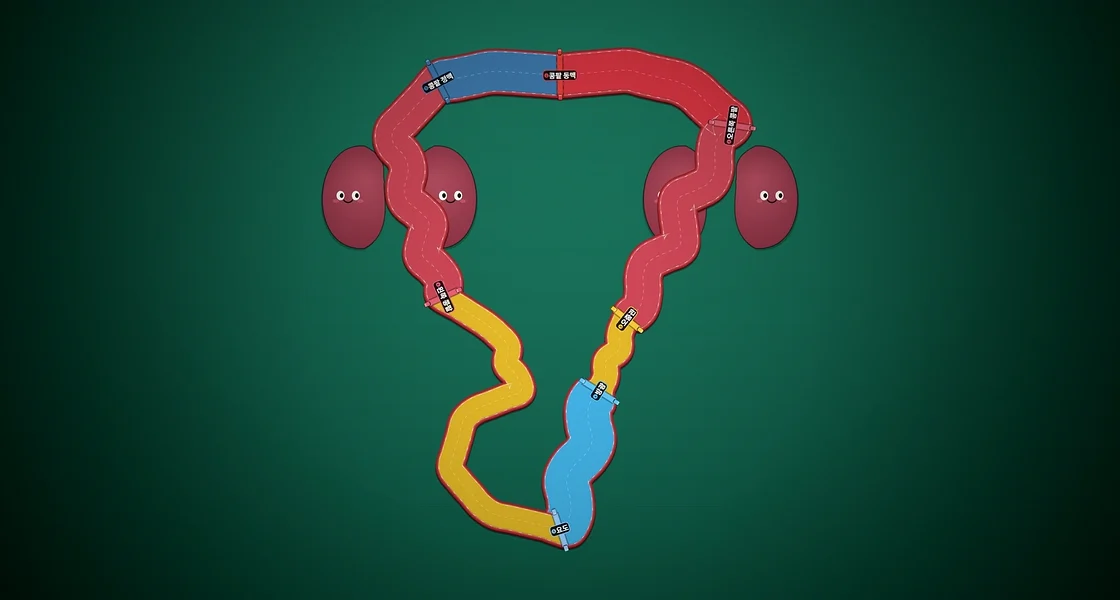
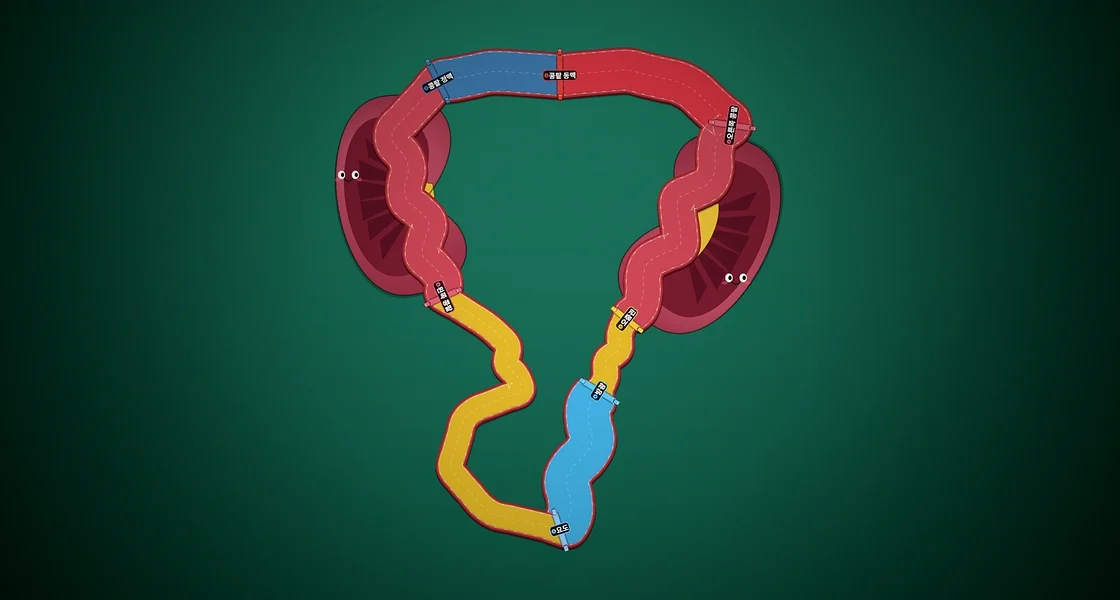
버전 110

diff --git a/index.html b/index.html
@@ -2173,6 +2173,16 @@ Object.assign(EN, {
    맨 위가 지금 판이다. 아래 CHANGES[0].v 가 화면 왼쪽 아래 숫자가 된다 —
    판을 올릴 때는 여기 한 줄만 새로 얹으면 된다. */
 const CHANGES = [
+    { v: 110, d: '9월 11일', t: [
+        '배설계 콩팥을 제대로 — 달걀 네 개로 보이던 것을 강낭콩 두 개로',
+        'Urinary kidneys fixed: two proper beans instead of what looked like four eggs',
+        '콩팥 속에 겉질 · 속질(콩팥 피라미드) · 콩팥깔때기를 그렸다 — 깔때기는 오줌관과 같은 노랑',
+        'Kidneys now show cortex, medulla pyramids and a pelvis matching the ureter',
+        '이자 코스를 뺐다 — 흐름이 아니라 기관 하나라 코스로 만들기 애매했다',
+        'The pancreas course is removed: it was a single organ, not a flow',
+        '친구 방에서 이 판에 없는 코스를 고르면 순환계로 들어간다',
+        'Online rooms fall back to the circulatory course if the host picked a course this version lacks'
+    ] },
     { v: 109, d: '9월 11일', t: [
         '코스 고르는 카드 그림을 다듬었다 — 카트·아이템·관중석·글자를 빼고 코스와 장기만',
         'Course cards redrawn: just the course and organs, no karts, items, stands or labels',
@@ -3360,77 +3370,6 @@ const SYSTEMS = {
             { q: '위의 출구를 지키며 조금씩만 내보내는 문은?', a: ['날문(유문)', '들문(분문)', '항문'], correct: 0, ex: '날문 괄약근이 죽이 된 음식만 조금씩 십이지장으로 보냅니다.' }
         ]
     }    ,
-    pancreas: {
-        island: 'pancreas',
-        id: 'pancreas', name: '이자 군도', laps: 5, /* 4 바퀴는 150 초로 짧았다 — 다른 맵에 맞춘다 */ closed: true, halfWidth: 178,
-        grass: ['#3a5c50', '#26403a'], accent: '#7ee0b8',
-        /* 이자를 확대하면 소화효소의 바다 위에 랑게르한스섬이 점점이 떠 있다.
-           길쭉한 기관을 따라 갔다가 돌아오는 왕복 슬라럼 —
-           섬 사이를 좌우로 누비는 리듬이 이 코스의 전부다. */
-        flow: [
-            { name: '이자 머리', at: [287, 2003], color: '#6ecfa8', role: '십이지장이 감싼 곳', blob: 250,
-              info: '이자에서 가장 두툼한 부분. 십이지장이 C자로 감싸 안고 있습니다.',
-              seg: { name: '섬 사이 슬라럼', color: '#7ee0b8', wMul: .7,
-                     desc: '랑게르한스섬 사이를 좌우로 누빈다 — 세 번의 큰 슬라럼!' },
-              via: [[378, 1872], [448, 1773], [430, 1572], [531, 1395], [721, 1427],
-                   [889, 1557], [1050, 1598], [1175, 1464], [1332, 1306], [1494, 1350],
-                   [1606, 1507], [1677, 1669], [1851, 1725], [1994, 1601], [2037, 1511],
-                   [2101, 1380], [2243, 1305], [2348, 1307], [2470, 1212], [2642, 1258],
-                   [2708, 1395], [2746, 1561], [2872, 1710], [3042, 1682], [3172, 1552],
-                   [3228, 1431], [3383, 1375], [3565, 1427], [3625, 1442], [3791, 1431],
-                   [3952, 1405], [4071, 1448], [4213, 1584], [4386, 1635], [4508, 1536],
-                   [4646, 1416]] },
-
-            { name: '랑게르한스섬', at: [4791, 1482], color: '#ffd166', role: '혈당 조절 본부', blob: 0,
-              pump: { power: .62, label: '인슐린 분비!', desc: '혈당이 오르면 인슐린을 뿜어 낮춥니다.' },
-              info: '소화액이 아니라 호르몬을 만드는 섬. 인슐린은 혈당을 낮추고 글루카곤은 올립니다.',
-              seg: { name: '이자 꼬리', color: '#e8c95c', wMul: .85,
-                     desc: '섬이 가장 많이 모여 있는 끝자락. 넓게 도는 고속 코너' },
-              via: [[4937, 1528], [4992, 1708], [5087, 1796], [5279, 1833], [5432, 1947],
-                   [5414, 2130], [5251, 2252], [5129, 2338], [5105, 2487], [5061, 2684],
-                   [4934, 2790], [4742, 2728]] },
-
-            { name: '꼬리 끝', at: [4600, 2750], color: '#e8c95c', role: '되돌아가는 곳', blob: 220,
-              info: '이자는 길이 15센티미터. 위 뒤에 가로로 길게 누워 있습니다.',
-              seg: { name: '돌아오는 슬라럼', color: '#5cc99a', wMul: .7,
-                     desc: '반대편 섬 사이로 다시 누비며 돌아간다' },
-              via: [[4444, 2705], [4299, 2822], [4134, 2920], [3993, 2813], [3895, 2657],
-                   [3805, 2509], [3624, 2511], [3503, 2636], [3452, 2697], [3368, 2821],
-                   [3236, 2882], [3154, 2913], [3007, 3021], [2846, 2937], [2803, 2782],
-                   [2762, 2599], [2617, 2488], [2444, 2559], [2331, 2680], [2263, 2765],
-                   [2083, 2797], [1921, 2755], [1867, 2780], [1689, 2795], [1541, 2803],
-                   [1429, 2722], [1270, 2573], [1114, 2565], [996, 2700], [846, 2804]] },
-
-            { name: '총담관 합류', at: [709, 2718], color: '#4a9e4f', role: '쓸개즙과 합류', blob: 240,
-              info: '간에서 온 쓸개즙 관과 이자관이 여기서 만나 한 관이 됩니다.',
-              seg: { name: '오디 괄약근', color: '#48b088', wMul: .62, tunnel: true,
-                     desc: '십이지장으로 나가는 마지막 문. 필요할 때만 열립니다' },
-              via: [[568, 2644], [527, 2453], [382, 2405], [151, 2337], [164, 2143]] }
-        ],
-        pickups: [
-            { icon: '아밀', name: '아밀레이스', color: '#8fd0e8', effect: 'turbo', img: 'rbc',
-              desc: '녹말을 엿당으로 자르는 효소. 힘차게 가속!' },
-            { icon: '트립', name: '트립신',   color: '#e8eef5', effect: 'wbc', img: 'wbc',
-              desc: '단백질을 자르는 이자의 효소. 가까운 카트를 붙잡습니다.' },
-            { icon: '글루', name: '글루카곤', color: '#e8a33d', effect: 'smoke', img: 'co2',
-              desc: '혈당을 올리는 호르몬이 확 퍼집니다. 뒤차의 시야를 가립니다.' },
-            { icon: '라이', name: '라이페이스', color: '#f3d98a', effect: 'sticky', img: 'chol',
-              desc: '지방을 분해하는 효소. 지나온 길이 미끌미끌!' },
-            { icon: '담석', name: '담석',     color: '#9a8a7a', effect: 'clot', img: 'clot',
-              desc: '관을 막는 돌. 앞차의 길을 막습니다!' }
-        ],
-        hazards: [
-            { icon: '담석', name: '담석', color: '#9a8a7a', r: 42, slow: .34, spin: true, desc: '쓸개즙이 굳어 생긴 돌. 관을 막으면 큰일!' },
-            { icon: '당분', name: '설탕 폭탄', color: '#f4a3c0', r: 40, slow: .4, spin: false, desc: '혈당이 치솟으면 이자가 바빠집니다.' }
-        ],
-        quiz: [
-            { q: '이자액에 들어 있지 않은 것은?', a: ['펩신', '아밀레이스', '트립신'], correct: 0, ex: '펩신은 위에서 나옵니다. 이자액에는 아밀레이스 · 트립신 · 라이페이스!' },
-            { q: '이자액이 분해할 수 있는 영양소는?', a: ['녹말 · 단백질 · 지방 전부', '녹말만', '지방만'], correct: 0, ex: '3대 영양소를 모두 분해하는 효소를 다 갖춘 유일한 소화액입니다.' },
-            { q: '혈당을 낮추는 호르몬은?', a: ['인슐린', '글루카곤', '아드레날린'], correct: 0, ex: '랑게르한스섬의 인슐린이 혈당을 낮춥니다. 부족하면 당뇨병!' },
-            { q: '혈당이 떨어졌을 때 올려 주는 호르몬은?', a: ['글루카곤', '인슐린', '펩신'], correct: 0, ex: '글루카곤이 간의 글리코젠을 포도당으로 바꿔 혈당을 올립니다.' },
-            { q: '이자가 특별한 이유는?', a: ['소화액과 호르몬을 둘 다 만든다', '가장 큰 기관이라서', '피를 만들어서'], correct: 0, ex: '소화기관이면서 내분비기관 — 두 가지 일을 한 몸으로 해냅니다.' }
-        ]
-    }
 };
 
 /* ============================================================================
@@ -4235,7 +4174,7 @@ Object.keys(SYSTEMS).forEach(key => {
    그림이 있으면 그림을 깔고, 없으면 수식 모양으로 버틴다 — 기관 그림과 같은 방식이다.
    그림은 위에서 내려다본 기관 하나, 배경 없이(투명), 정사각형이면 된다. */
 const ISLAND_IMAGES = {};
-['brain', 'stomach', 'kidney', 'liver', 'ear', 'eye', 'lungs', 'pancreas'].forEach(key => {
+['brain', 'stomach', 'kidney', 'liver', 'ear', 'eye', 'lungs'].forEach(key => {
     const im = new Image();
     im.onload = () => { im.ready = true; };
     im.src = 'assets/island_' + key + '.webp';
@@ -5605,7 +5544,7 @@ function drawSpeedLines(g) {
    무거운 계산 없이 'destination-out' 한 번이면 되므로 폰에서도 부담이 없다.
 
    빛의 세기는 계통마다 다르다 — 뇌는 어둑하고, 폐는 환하다. */
-const LIGHT_DARK = { circulatory: .30, digestive: .26, respiratory: .18, nervous: .42, urinary: .28, auditory: .38, visual: .30, glomerulus: .32, liver: .34, stomach: .26, pancreas: .24 };
+const LIGHT_DARK = { circulatory: .30, digestive: .26, respiratory: .18, nervous: .42, urinary: .28, auditory: .38, visual: .30, glomerulus: .32, liver: .34, stomach: .26 };
 let lightCv = null, lightG = null;
 
 function drawLighting(g, zoom) {
@@ -5883,6 +5822,55 @@ function lobePath(g, R, side) {
     g.closePath();
 }
 
+/* 콩팥 그림을 그 콩팥을 지나는 길에 맞춘다 (배설계).
+   가장 가까운 '콩팥 바깥 돌기' 구간의 표본으로 중심 · 긴 축(주성분) · 폭을 잰다.
+   좌표를 손으로 박지 않으므로, 나중에 길을 고쳐도 콩팥이 따라온다.
+   맞출 구간이 없으면 lm 자리에 반지름 r 크기로 세운다. */
+function fitKidney(lm) {
+    const midX = track.bounds.x + track.bounds.w / 2;
+    const cen = s => {
+        let x = 0, y = 0, n = 0;
+        for (let k = s.from; k <= s.to; k++) { x += track.pts[k].x; y += track.pts[k].y; n++; }
+        return [x / n, y / n];
+    };
+    let best = null, bc = null, bd = 1e18;
+    for (const sec of track.secs) {
+        if (!/콩팥 바깥/.test(sec.name || '')) continue;
+        const c = cen(sec), d = Math.hypot(c[0] - lm.at[0], c[1] - lm.at[1]);
+        if (d < bd) { bd = d; best = sec; bc = c; }
+    }
+    if (!best || bd > lm.r * 2.5) {
+        return { cx: lm.at[0], cy: lm.at[1], ang: 0, len: lm.r * 1.3, wid: lm.r * .8,
+                 flip: lm.at[0] > midX ? 1 : -1 };
+    }
+    const [mx, my] = bc;
+    let xx = 0, yy = 0, xy = 0;
+    for (let k = best.from; k <= best.to; k++) {
+        const dx = track.pts[k].x - mx, dy = track.pts[k].y - my;
+        xx += dx * dx; yy += dy * dy; xy += dx * dy;
+    }
+    const major = .5 * Math.atan2(2 * xy, xx - yy);           // 길이 뻗은 방향
+    const ux = Math.cos(major), uy = Math.sin(major);
+    let a0 = 1e9, a1 = -1e9, b0 = 1e9, b1 = -1e9;
+    for (let k = best.from; k <= best.to; k++) {
+        const dx = track.pts[k].x - mx, dy = track.pts[k].y - my;
+        const a = dx * ux + dy * uy, b = -dx * uy + dy * ux;
+        a0 = Math.min(a0, a); a1 = Math.max(a1, a); b0 = Math.min(b0, b); b1 = Math.max(b1, b);
+    }
+    const am = (a0 + a1) / 2, bm = (b0 + b1) / 2;
+    const cx = mx + am * ux - bm * uy, cy = my + am * uy + bm * ux;
+    const ang = major - Math.PI / 2;                            // rotate 뒤 local y 가 긴 축
+    const outward = cx > midX ? 1 : -1;                         // 몸 바깥쪽
+    const flip = Math.cos(ang) * outward >= 0 ? 1 : -1;         // 볼록한 쪽(local +x)이 바깥, 콩팥문이 가운데
+    const len = (a1 - a0) * .95;
+    const wid = Math.max((b1 - b0) + track.sys.halfWidth * 2.4, len * .62);
+    /* 길 한가운데에 앉히면 콩팥 몸통이 길에 거의 다 가려졌다(1차 시험).
+       볼록한 쪽(몸 바깥)으로 밀어, 길은 콩팥문 쪽을 지나고 몸통은 드러나게 한다. */
+    const push = wid * .24;
+    return { cx: cx + flip * Math.cos(ang) * push, cy: cy + flip * Math.sin(ang) * push,
+             ang, len, wid, flip };
+}
+
 function drawLandmarks(g, inView) {
     const lms = track.sys.landmarks;
     if (!lms) return;
@@ -5965,28 +5953,67 @@ function drawLandmarks(g, inView) {
             drawFace(g, -R * .3, R * .3, R * .26, i);
 
         } else if (lm.type === 'kidney') {
-            // 콩팥 : 강낭콩 두 쪽
-            const pulse = 1 + Math.sin(t * 1.3) * .02;
-            g.scale(pulse, pulse);
-            [-1, 1].forEach(side => {
-                g.save(); g.translate(side * R * .52, 0); g.scale(side, 1);
-                const bean = () => {
-                    g.beginPath();
-                    g.moveTo(-R * .1, -R * .62);
-                    g.bezierCurveTo(R * .55, -R * .68, R * .62, R * .68, -R * .1, R * .62);
-                    g.bezierCurveTo(-R * .48, R * .42, -R * .3, -R * .12, -R * .34, -R * .18);
-                    g.bezierCurveTo(-R * .3, -R * .3, -R * .42, -R * .46, -R * .1, -R * .62);
-                    g.closePath();
-                };
-                g.save(); g.translate(12, 20); g.globalAlpha = .2; g.fillStyle = '#000';
-                bean(); g.fill(); g.restore();
-                const kg = g.createRadialGradient(-R * .1, -R * .2, R * .05, 0, 0, R * .8);
-                kg.addColorStop(0, '#c4566a'); kg.addColorStop(1, '#8e2f45');
-                g.globalAlpha = .9; g.fillStyle = kg; bean(); g.fill(); g.globalAlpha = 1;
-                g.strokeStyle = 'rgba(0,0,0,.42)'; g.lineWidth = 10; bean(); g.stroke();
-                g.restore();
-                drawFace(g, side * R * .62, R * .02, R * .22, i + side);
-            });
+            /* 콩팥 : 자리 하나에 강낭콩 하나.
+               예전에는 한 번 그릴 때 '강낭콩 두 쪽' 을 좌우로 그렸다. 그런데 배설계는 콩팥 자리를
+               왼쪽 · 오른쪽 따로 두어서 콩이 넷, 얼굴도 넷 — 달걀 네 개로 보였다.
+               이제 하나씩, 그 콩팥을 지나는 길에 맞춰 앉힌다(순환계 심장처럼 길이 위를 지난다).
+               오목한 콩팥문은 몸 가운데를 보고, 속에는 겉질 · 속질(콩팥 피라미드) · 콩팥깔때기를 그린다.
+               깔때기는 오줌관(노란 길)과 같은 노랑 — 여기서 오줌이 빠져나간다는 것이 보이게. */
+            if (!lm._fit || lm._fitTrack !== track) { lm._fit = fitKidney(lm); lm._fitTrack = track; }
+            const f = lm._fit, L = f.len, Wd = f.wid;
+            const pulse = 1 + Math.sin(t * 1.3) * .015;
+            const bean = () => {
+                g.beginPath();
+                g.moveTo(0, -L / 2);
+                g.bezierCurveTo(Wd * .64, -L / 2, Wd * .64, L / 2, 0, L / 2);           // 볼록한 바깥
+                g.bezierCurveTo(-Wd * .58, L / 2, -Wd * .66, L * .2, -Wd * .2, L * .05);  // 아래 끝 → 콩팥문
+                g.bezierCurveTo(-Wd * .66, -L * .2, -Wd * .58, -L / 2, 0, -L / 2);        // 콩팥문 → 위 끝
+                g.closePath();
+            };
+            g.save();
+            g.translate(f.cx - lm.at[0], f.cy - lm.at[1]);
+            g.rotate(f.ang);
+            g.scale(f.flip * pulse, pulse);
+            // 그림자
+            g.save(); g.translate(16, 24); g.globalAlpha = .22; g.fillStyle = '#000'; bean(); g.fill(); g.restore();
+            // 겉질
+            const kg = g.createRadialGradient(Wd * .15, -L * .18, Wd * .05, 0, 0, L * .6);
+            kg.addColorStop(0, '#d0667a'); kg.addColorStop(1, '#8e2f45');
+            g.fillStyle = kg; bean(); g.fill();
+            // 속질 : 겉질 안쪽의 어두운 층
+            g.save(); g.translate(Wd * .06, 0); g.scale(.74, .8);
+            g.fillStyle = '#7a2438'; bean(); g.fill();
+            g.restore();
+            // 콩팥 피라미드 : 밑변은 바깥(겉질 쪽), 꼭짓점은 콩팥문 쪽
+            g.fillStyle = '#5e1a2b';
+            const PY = 6;
+            for (let p = 0; p < PY; p++) {
+                const a = (p + .5) / PY;
+                const by = (a - .5) * L * .62;
+                const bx = Wd * .30 * Math.sqrt(Math.max(0, 1 - Math.pow((a - .5) * 1.9, 2)));
+                const half = L * .05;
+                g.beginPath();
+                g.moveTo(bx, by - half); g.lineTo(bx, by + half);
+                g.lineTo(-Wd * .12, by * .35); g.closePath(); g.fill();
+            }
+            // 콩팥깔때기 : 피라미드 끝에서 모인 오줌이 콩팥문으로 빠지는 둥근 깔때기
+            //   (1차는 뾰족한 삼각형이라 깃발처럼 보였다)
+            g.fillStyle = '#e8c24a'; g.strokeStyle = 'rgba(0,0,0,.35)'; g.lineWidth = 7;
+            g.beginPath();
+            g.moveTo(-Wd * .04, -L * .17);
+            g.bezierCurveTo(Wd * .06, -L * .08, Wd * .06, L * .08, -Wd * .04, L * .17);   // 둥근 머리
+            g.bezierCurveTo(-Wd * .14, L * .12, -Wd * .2, L * .04, -Wd * .3, L * .035);   // 목으로 좁아진다
+            g.lineTo(-Wd * .3, -L * .035);
+            g.bezierCurveTo(-Wd * .2, -L * .04, -Wd * .14, -L * .12, -Wd * .04, -L * .17);
+            g.closePath(); g.fill(); g.stroke();
+            // 바깥선
+            g.strokeStyle = 'rgba(0,0,0,.42)'; g.lineWidth = 12; bean(); g.stroke();
+            g.restore();
+            // 얼굴은 하나 — 볼록한 쪽 위에 똑바로 세운다
+            const fx = Wd * .36 * f.flip, fy = -L * .12;         // 길에 안 가리는 볼록한 쪽
+            const ca = Math.cos(f.ang), sa = Math.sin(f.ang);
+            drawFace(g, f.cx - lm.at[0] + fx * ca - fy * sa, f.cy - lm.at[1] + fx * sa + fy * ca,
+                     Math.min(Wd, L) * .13, i);
 
         } else if (lm.type === 'lungs') {
             const br = 1 + Math.sin(t * 1.1) * .04;                               // 숨쉬기
@@ -8462,8 +8489,10 @@ async function joinCode(code, pub) {
 
     net.roomId = code; net.myId = myId;
     net.isHost = false; net.hostId = room.hostId || null;
-    net.mapId = room.mapId || 'circulatory';
-    selectedId = net.mapId;                       // 방장이 고른 코스를 따라간다
+    /* 방장이 고른 코스를 따라간다. 단, 이 판에 없는 코스면 순환계로 —
+       옛 판을 쓰는 친구가 없어진 코스(예: 이자)를 고르면 없는 맵을 열다 멈췄을 것이다. */
+    net.mapId = (room.mapId && SYSTEMS[room.mapId]) ? room.mapId : 'circulatory';
+    selectedId = net.mapId;
     net.mySeat = seat; net.myName = seatName(seat);
     net.pub = !!pub;
 
@@ -10116,7 +10145,7 @@ let mapAt = 0;                     // 지금 보고 있는 코스
 let setupStep = 0;                 // 지금 보고 있는 장
 
 /* 계통을 도는 코스인지, 기관 하나를 확대한 코스인지 */
-const ZOOM_MAPS = ['glomerulus', 'liver', 'stomach', 'pancreas'];
+const ZOOM_MAPS = ['glomerulus', 'liver', 'stomach'];
 
 function drawMapCard(dir) {
     const ids = MAP_IDS();
@@ -10614,21 +10643,6 @@ const KNOW_QS = {
         { q: '음식을 밀어내는 위와 소장의 운동은?', a: '연동 운동',
           w: ['확산', '여과', '재흡수'], ex: '근육이 물결처럼 수축하며 밀어냅니다.' }
     ],
-    pancreas: [
-        { q: '혈당을 낮추는 호르몬은?', a: '인슐린',
-          w: ['글루카곤', '아드레날린', '티록신'], ex: '포도당을 세포로 넣고 간에 저장시킵니다.' },
-        { q: '혈당을 높이는 호르몬은?', a: '글루카곤',
-          w: ['인슐린', '아드레날린', '멜라토닌'], ex: '간에 저장된 글리코젠을 포도당으로 바꿉니다.' },
-        { q: '인슐린과 글루카곤을 만드는 곳은?', a: '랑게르한스섬',
-          w: ['쓸개', '간', '위'], ex: '이자 곳곳에 섬처럼 흩어져 있어 붙은 이름입니다.' },
-        { q: '이자액 속에서 단백질을 분해하는 효소는?', a: '트립신',
-          w: ['아밀레이스', '라이페이스', '펩신'], ex: '위의 펩신이 하던 일을 이어서 합니다.' },
-        { q: '이자액이 십이지장에서 하는 일은?', a: '위산을 중화한다',
-          w: ['위산을 더 세게 한다', '물을 흡수한다', '산소를 공급한다'],
-          ex: '소장의 효소는 염기성에서 잘 작동하기 때문입니다.' },
-        { q: '이자처럼 호르몬을 혈액으로 내보내는 샘을 무엇이라 하나?', a: '내분비샘',
-          w: ['외분비샘', '림프샘', '땀샘'], ex: '관 없이 바로 혈액으로 보냅니다.' }
-    ]
 };
 
 const QUIZ_LEVELS = [
